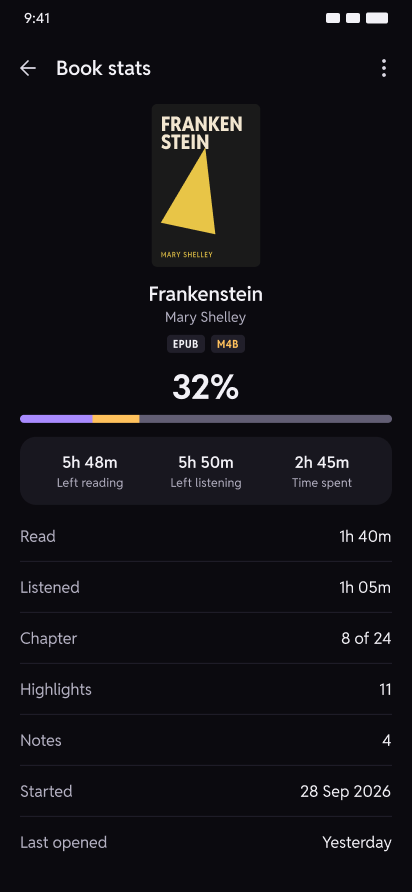
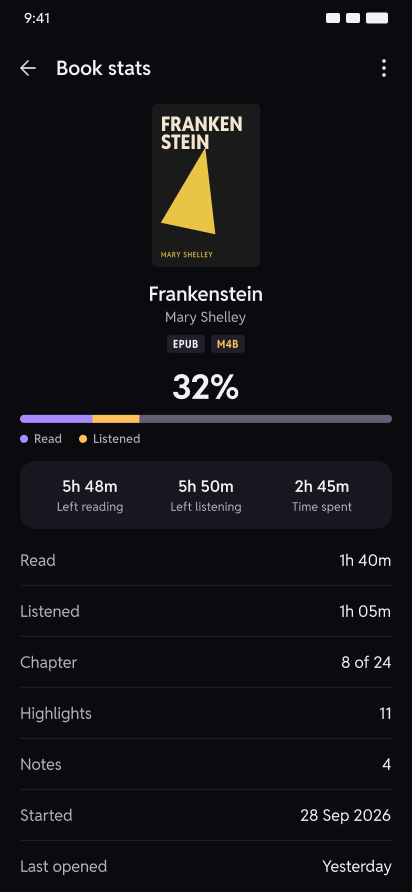
Second review fixes: Tako tips, Pip tail, Read along controls
- Tako: sucker tips end 4px or more from the ink; two side arms added so the octopus has eight, on the sheet and the picker tiles.
- Pip: toes stay 4px clear of the letters and the dotted tail is now one tapered shape, on the sheet and the tiles.
- Reading-size samples use the same word spacing as the narration text; creatures moved with their words and lines re-dimmed.
- Read along keeps the sleep timer chip and the player's Chapters, Read along and Bookmarks bar, with Read along shown active; the text viewport fades out at the bottom.
- Portrait halos now render in bg/surface instead of black.
- Frankenstein stats bar gains a Read and Listened legend; Foundations specimens match the dataset and the narration label.
- Sheet and profile say the feet stop just short of the letters; README adds the missing Phase 3 labels.

diff --git a/design/screens/README.md b/design/screens/README.md
@@ -11,7 +11,7 @@ Exported at 1x from the Figma file `VVCsO55kIkLasjBGTEv9Ei` (ALL IN ONE reader (
 | 04-comic-reader.png | Comic reader | 2017:488 | |
 | 05-comic-reading-mode.png | Reading mode sheet | 2017:582 | |
 | 06-audiobook-player.png | Audiobook player · Pride and Prejudice | 2018:640 | |
-| 07-more.png | More | 2019:671 | Sync row: Pro |
+| 07-more.png | More | 2019:671 | Sync row: Pro; Reading buddy row: Phase 3 |
 | 08-settings.png | Settings | 2019:803 | |
 | 09-listening-settings.png | Settings · Listening | 2019:927 | Narration voices: Phase 4; reading buddy: Phase 3 |
 | 10-library-empty.png | Library · empty | 2020:930 | |
@@ -29,6 +29,6 @@ Exported at 1x from the Figma file `VVCsO55kIkLasjBGTEv9Ei` (ALL IN ONE reader (
 | 22-narration-demo-frame5.png | Narration demo 5 | 2014:1397 | Phase 4 |
 | 23-read-along-frame1.png | Read along · 1 | 2048:2147 | Phase 3 |
 | 24-read-along-frame4.png | Read along · 4 | 2048:3577 | Phase 3 |
-| 25-buddy-paywall.png | Buddy paywall · Pro | 2050:2322 | Pro ($4.99 a year is illustrative) |
+| 25-buddy-paywall.png | Buddy paywall · Pro | 2050:2322 | Pro ($4.99 a year is illustrative); reading buddies: Phase 3 |
 | 26-book-stats-frankenstein.png | Book stats · Frankenstein | 2054:2775 | Pair stats: Phase 3 |
 | 27-library-kids.png | Library · Kids | 2054:2405 | |

diff --git a/design/design-profile.md b/design/design-profile.md
@@ -36,7 +36,7 @@
 - Type: Reddit Sans text styles (Display, Headline, Title, Body, Label, Reader, Numeric), Reddit Sans Condensed for badges. Reader/Lyrics is the Read along text; Reader/Narration is narration text.
 - Colour rules: violet is the app accent and the reading colour; amber is reserved for listening (audio, narration, the reading buddy); red only for errors; green only for "finished". Empty tracks and off toggles use border/track (3:1 on the canvas). The narration sentence band uses listen/band, an opaque token, so text halos can match it. Amber text and icons use listen/text (amber/700 in Light mode, 5.9:1 on white).
 - Logos: none yet. The wordmark is plain Reddit Sans text until a name is chosen.
-- Domain visual idea: the reading buddy, a small creature that walks the line being read, its legs passing behind the letters so every word stays readable (from the owner's reference video). In Read along it replaces the highlight; it leaves no footprints.
+- Domain visual idea: the reading buddy, a small creature that walks the line being read, its feet stopping just short of the letters so every word stays readable (from the owner's reference video). In Read along it replaces the highlight; it leaves no footprints.
 
 ## Figma
 - Working file: `VVCsO55kIkLasjBGTEv9Ei` (ALL IN ONE reader (Copy)).
